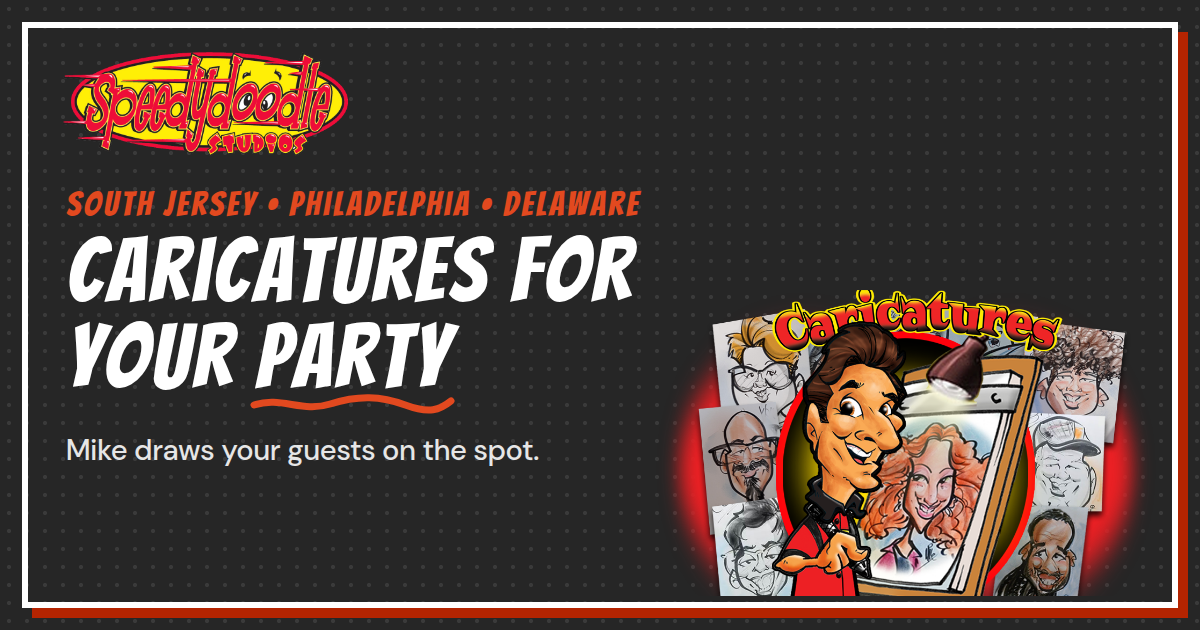
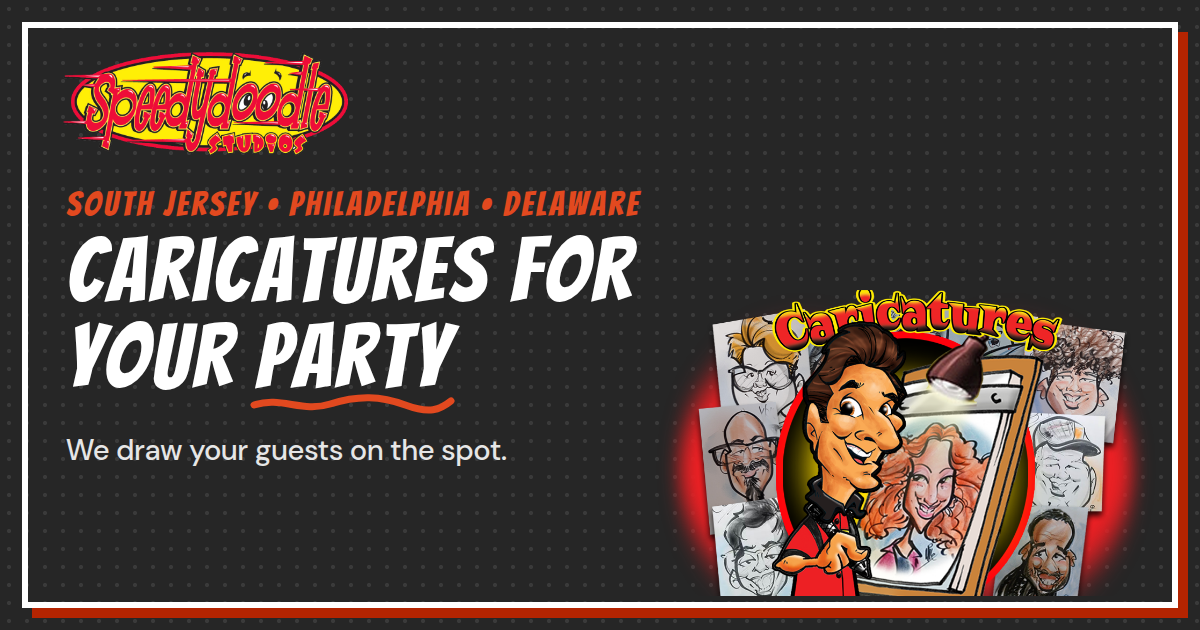
Speak as the studio: "we" in most places, "Mike" where the person matters
The first wording said "Mike" in almost each sentence, and it read as
a repeat. The site now speaks as a host who shows a visitor what the
studio offers: "Here at Speedydoodle Studios, we ...". "Mike" stays
where the person matters: who comes to an event, and who reads a
request.

The three share cards have the new words. The spec records the change.

Changed region(s): [[0.0308, 0.6937, 0.4625, 0.754]]

diff --git a/src/routes/home.tsx b/src/routes/home.tsx
@@ -16,7 +16,7 @@ import type { Route } from "./+types/home";
 
 const TITLE = "Speedydoodle Studios | Party caricatures by Mike Arnold";
 const DESCRIPTION =
-  "Mike draws fast, fun caricatures at weddings, birthdays, and company parties across South Jersey, Philadelphia, and Delaware. Get a quote in two minutes.";
+  "Here at Speedydoodle Studios, we draw fast, fun caricatures at weddings, birthdays, and company parties across South Jersey, Philadelphia, and Delaware. Get a quote in two minutes.";
 
 // What a search engine reads to know that this is a local business.
 const BUSINESS = {
@@ -47,7 +47,7 @@ export function meta() {
       description: DESCRIPTION,
       path: "/",
       image: "/share/home.jpg",
-      imageAlt: "A caricature of Mike Arnold at an easel, with the words: Caricatures for your party.",
+      imageAlt: "A caricature of Mike Arnold at an easel, with the words: Caricatures for your party. We draw your guests on the spot.",
     }),
     { "script:ld+json": BUSINESS },
   ];
@@ -65,7 +65,7 @@ const WORK: { type: QuoteType; gallery: string; title: string; line: string; pri
     type: "live",
     gallery: "/gallery/party",
     title: "Live events",
-    line: "Mike shows up and draws your guests on the spot. About 12 faces an hour.",
+    line: "Mike comes to your event and draws your guests on the spot, about 12 faces an hour.",
     price: (
       <>
         <Price>${PRICES.liveHourlyRate}</Price> an hour, plus travel
@@ -81,7 +81,7 @@ const WORK: { type: QuoteType; gallery: string; title: string; line: string; pri
     type: "custom",
     gallery: "/gallery/custom",
     title: "Custom caricatures",
-    line: "Send a few photos, and Mike turns them into a one-of-a-kind gift.",
+    line: "Send us a few photos, and we'll turn them into a one-of-a-kind gift.",
     price: (
       <>
         From <Price>${PRICES.customBase + PRICES.customPeople[1]}</Price>
@@ -98,7 +98,7 @@ const WORK: { type: QuoteType; gallery: string; title: string; line: string; pri
     type: "lni",
     gallery: "/gallery/logos",
     title: "Logos and illustrations",
-    line: "Got a brand, a book, or a product? Mike draws those too.",
+    line: "Got a brand, a book, or a product? We draw for those too.",
     price: (
       <>
         Logos <Price>${PRICES.logoHourlyRate}</Price> an hour · Illustrations <Price>${PRICES.illustration}</Price>
@@ -136,14 +136,14 @@ export default function Home({ loaderData }: Route.ComponentProps) {
               <Title as="span" big text="Speedydoodle Studios" underline="Studios" className="block" style={delay(1)} />
             </h1>
             <p className="mt-[18px] max-w-[44ch] text-[clamp(16px,1.6vw,19px)] text-[#dcdcdc]" data-m style={delay(3)}>
-              Mike draws fast, fun caricatures at weddings, birthdays, and company parties.
+              Here at Speedydoodle Studios, we turn weddings, birthdays, and company parties into something your guests take home.
             </p>
             <div className="mt-7 flex flex-wrap gap-4">
               <ComicButton to={quotePath()} reveal style={delay(4)}>
                 Get a quote
               </ComicButton>
               <ComicButton to="/gallery" ghost reveal style={delay(5)}>
-                See Mike's work
+                See our work
               </ComicButton>
             </div>
           </div>
@@ -162,14 +162,14 @@ export default function Home({ loaderData }: Route.ComponentProps) {
         </div>
       </Reveal>
 
-      {/* 2. What Mike does. */}
+      {/* 2. What we offer. */}
       <Reveal dots className="bg-card px-page py-[clamp(48px,8vw,96px)]">
         <div className="mx-auto max-w-content">
           <div className="text-center">
             <p className="kicker" data-m>
-              Three ways to book Mike
+              Take a look around
             </p>
-            <Title text="What Mike does" underline="does" />
+            <Title text="What we offer" underline="offer" />
           </div>
           <div className="mt-[52px] grid gap-14 md:grid-cols-3 md:gap-10">
             {WORK.map((work) => (
@@ -188,7 +188,7 @@ export default function Home({ loaderData }: Route.ComponentProps) {
                   <ComicButton to={quotePath(work.type)} size="small" reveal>
                     Get a quote
                   </ComicButton>
-                  <ComicButton to={work.gallery} size="small" ghost reveal aria-label={`See Mike's work: ${work.title}`}>
+                  <ComicButton to={work.gallery} size="small" ghost reveal aria-label={`See our work: ${work.title}`}>
                     See the work
                   </ComicButton>
                 </div>
@@ -203,9 +203,9 @@ export default function Home({ loaderData }: Route.ComponentProps) {
         <div className="mx-auto max-w-content">
           <div className="text-center">
             <p className="kicker" data-m>
-              Every one drawn by hand
+              Every piece drawn by hand
             </p>
-            <Title text="Mike's work" underline="work" />
+            <Title text="Our work" underline="work" />
           </div>
           <div className="mt-[52px] grid grid-cols-2 gap-[26px] md:grid-cols-4 md:gap-[34px]">
             {loaderData.picks.map((picture, index) => (
@@ -263,7 +263,7 @@ export default function Home({ loaderData }: Route.ComponentProps) {
       <Reveal dots className="px-page py-[clamp(48px,8vw,96px)] text-center">
         <Title text="Let's draw your party" underline="party" />
         <p className="mx-auto mt-[18px] max-w-[44ch] text-[clamp(16px,1.6vw,19px)] text-[#dcdcdc]" data-m>
-          Tell Mike the date and the place. You'll hear back within 24 hours.
+          Tell us the date and the place, and we'll get back to you within 24 hours.
         </p>
         <div className="mt-7 flex justify-center">
           <ComicButton to={quotePath()} reveal>

diff --git a/src/routes/gallery.tsx b/src/routes/gallery.tsx
@@ -11,25 +11,25 @@ import { pageMeta } from "@/lib/site";
 import "@/styles/gallery.css";
 import type { Route } from "./+types/gallery";
 
-const SHARE = { image: "/share/gallery.jpg", imageAlt: "Three of Mike's drawings, with the words: See Mike's work." };
+const SHARE = { image: "/share/gallery.jpg", imageAlt: "Three of our drawings, with the words: See our work." };
 
 // The title and the description of each choice of the bar.
 const PAGES: Record<CategoryKey, { label: string; description: string }> = {
   party: {
     label: "Party caricatures",
-    description: "Caricatures Mike drew on the spot at weddings, birthdays, and company parties across South Jersey, Philadelphia, and Delaware.",
+    description: "Caricatures we drew on the spot at weddings, birthdays, and company parties across South Jersey, Philadelphia, and Delaware.",
   },
   custom: {
     label: "Custom caricatures",
-    description: "Custom caricatures Mike drew from photos. One-of-a-kind gifts, every one drawn by hand.",
+    description: "Custom caricatures we drew from photos. One-of-a-kind gifts, each one drawn by hand.",
   },
   illustrations: {
     label: "Illustrations",
-    description: "Illustrations Mike drew for books, brands, and products. Every one drawn by hand.",
+    description: "Illustrations we drew for books, brands, and products, each one drawn by hand.",
   },
   logos: {
     label: "Logos",
-    description: "Cartoon logos Mike drew for businesses and brands. Every one drawn by hand.",
+    description: "Cartoon logos we drew for businesses and brands, each one drawn by hand.",
   },
 };
 
@@ -54,14 +54,14 @@ export function meta({ params, loaderData }: Route.MetaArgs) {
   }
   if (category) {
     return pageMeta({
-      title: `${PAGES[category].label} | Mike's work | Speedydoodle Studios`,
+      title: `${PAGES[category].label} | Our work | Speedydoodle Studios`,
       description: PAGES[category].description,
       path: listPath(category),
       ...SHARE,
     });
   }
   return pageMeta({
-    title: "Mike's work | Speedydoodle Studios",
+    title: "Our work | Speedydoodle Studios",
     description: "Party caricatures, custom gifts, logos, and illustrations. Every one drawn by hand.",
     path: "/gallery",
     ...SHARE,
@@ -193,7 +193,7 @@ export default function GalleryPage({ loaderData, params }: Route.ComponentProps
       <main className="dots">
         <Reveal mode="load" className="px-4 pb-2 pt-[clamp(36px,6vw,72px)] text-center">
           <p className="kicker" data-m style={delay(0)}>
-            All drawn by Mike
+            Every piece drawn by hand
           </p>
           <Title as="h1" big text="The Gallery" style={delay(1)} />
         </Reveal>
@@ -210,7 +210,7 @@ export default function GalleryPage({ loaderData, params }: Route.ComponentProps
           <Wall key={listKey} listKey={listKey} pictures={pictures} onOpen={(panel) => (opener.current = panel)} />
         ) : (
           <p className="gallery-loading comic" role="status">
-            {failed ? "The pictures did not load. Check the connection and reload." : "Mike is sharpening the pencils…"}
+            {failed ? "The pictures did not load. Check the connection and reload." : "We're sharpening the pencils…"}
           </p>
         )}
       </main>

diff --git a/docs/design-studies/share-card.html b/docs/design-studies/share-card.html
@@ -32,12 +32,12 @@
 <img class="logo" src="img/logo.png" alt="">
 
 <div data-card="home">
-  <div class="copy"><div class="kicker">South Jersey • Philadelphia • Delaware</div><h1>Caricatures for your <span class="u">party<svg viewBox="0 0 200 22" preserveAspectRatio="none"><path d="M3 12 C 30 3, 50 20, 78 11 S 128 3, 152 12 S 186 17, 197 8"/></svg></span></h1><p class="line">Mike draws your guests on the spot.</p></div>
+  <div class="copy"><div class="kicker">South Jersey • Philadelphia • Delaware</div><h1>Caricatures for your <span class="u">party<svg viewBox="0 0 200 22" preserveAspectRatio="none"><path d="M3 12 C 30 3, 50 20, 78 11 S 128 3, 152 12 S 186 17, 197 8"/></svg></span></h1><p class="line">We draw your guests on the spot.</p></div>
   <img class="art" src="img/splash.png" alt="">
 </div>
 
 <div data-card="gallery">
-  <div class="copy"><div class="kicker">132 drawings and counting</div><h1>See Mike's <span class="u">work<svg viewBox="0 0 200 22" preserveAspectRatio="none"><path d="M3 12 C 30 3, 50 20, 78 11 S 128 3, 152 12 S 186 17, 197 8"/></svg></span></h1><p class="line">Party caricatures, gifts, logos, and illustrations.</p></div>
+  <div class="copy"><div class="kicker">132 drawings and counting</div><h1>See our <span class="u">work<svg viewBox="0 0 200 22" preserveAspectRatio="none"><path d="M3 12 C 30 3, 50 20, 78 11 S 128 3, 152 12 S 186 17, 197 8"/></svg></span></h1><p class="line">Party caricatures, gifts, logos, and illustrations.</p></div>
   <div class="panels">
     <i style="left:0;top:30px;rotate:-5deg;background-image:url('https://ik.imagekit.io/4hll6ncue/party_caricatures/05-Party_Caricatures.jpg?tr=w-520')"></i>
     <i style="left:190px;top:0;rotate:4deg;background-image:url('https://ik.imagekit.io/4hll6ncue/custom_caricatures/SD-Joe-GIFT-Caricature.jpg?tr=w-520')"></i>
@@ -46,7 +46,7 @@
 </div>
 
 <div data-card="services">
-  <div class="copy"><div class="kicker">Takes two minutes</div><h1>Book Mike for your <span class="u">event<svg viewBox="0 0 200 22" preserveAspectRatio="none"><path d="M3 12 C 30 3, 50 20, 78 11 S 128 3, 152 12 S 186 17, 197 8"/></svg></span></h1><p class="line">Live caricatures from $150 an hour. You pay nothing to ask.</p></div>
+  <div class="copy"><div class="kicker">Takes two minutes</div><h1>Book us for your <span class="u">event<svg viewBox="0 0 200 22" preserveAspectRatio="none"><path d="M3 12 C 30 3, 50 20, 78 11 S 128 3, 152 12 S 186 17, 197 8"/></svg></span></h1><p class="line">Live caricatures from $150 an hour. You pay nothing to ask.</p></div>
   <img class="art" src="img/splash.png" alt="" style="width:400px;right:90px;bottom:auto;top:60px">
   <div class="burst"><svg viewBox="0 0 330 150" preserveAspectRatio="none"><polygon id="shade" fill="#000" transform="translate(8 8)"/><polygon id="shape" fill="#b42401" stroke="#fff" stroke-width="6" stroke-linejoin="round"/></svg><span>Get a quote</span></div>
 </div>

diff --git a/src/components/quote/AnswerStep.tsx b/src/components/quote/AnswerStep.tsx
@@ -40,7 +40,7 @@ const SELECTIONS = [
   { value: "illustration" as const, label: "An illustration", cost: `$${PRICES.illustration}` },
 ];
 
-const DRAWING_HELP = "Who's in it, and what are they up to? You can email Mike the photos later.";
+const DRAWING_HELP = "Who's in it, and what are they up to? You can email us the photos later.";
 const NEED_HELP = "What's it for, and what should it show?";
 
 // Step 2: the questions about the visitor, then the questions of the chosen kind of work.
@@ -83,8 +83,8 @@ export function AnswerStep({ type, answers, problems, place, today, set, onTypeL
         {line("firstName", "First name", { maxLength: 60, autoComplete: "given-name" })}
         {line("lastName", "Last name", { maxLength: 60, autoComplete: "family-name" })}
       </div>
-      {line("email", "Email address", { help: "Mike sends your quote here.", maxLength: 254, type: "email", autoComplete: "email", inputMode: "email" })}
-      {line("phone", "Phone number (optional)", { help: "Mike only calls if a detail of your event is unclear.", maxLength: 25, type: "tel", autoComplete: "tel" })}
+      {line("email", "Email address", { help: "We'll send your quote here.", maxLength: 254, type: "email", autoComplete: "email", inputMode: "email" })}
+      {line("phone", "Phone number (optional)", { help: "We only call if a detail of your event is unclear.", maxLength: 25, type: "tel", autoComplete: "tel" })}
 
       {type === "live" ? (
         <>

diff --git a/src/components/quote/QuoteForm.tsx b/src/components/quote/QuoteForm.tsx
@@ -29,8 +29,8 @@ import { NO_PLACE, type Place } from "./LocationField";
 type Step = 1 | 2 | 3 | 4;
 
 const HEAD: Record<Step, { where: string; title: string; sub: string }> = {
-  1: { where: "Step 1 of 3", title: "What can Mike draw for you?", sub: "Pick one. You can always go back." },
-  2: { where: "Step 2 of 3", title: "Tell Mike about it", sub: "Mike needs each of these to give you a price." },
+  1: { where: "Step 1 of 3", title: "What can we draw for you?", sub: "Pick one. You can always go back." },
+  2: { where: "Step 2 of 3", title: "Tell us about it", sub: "We need each of these to give you a price." },
   3: { where: "Step 3 of 3", title: "Look it over, then send it", sub: "Want to change something? Press Back." },
   4: { where: "Done", title: "Thank you!", sub: "" },
 };
@@ -278,7 +278,7 @@ export function QuoteForm() {
               <div className="ink-box bubble quote-thanks">
                 <InkParts radius={22} />
                 <p className="ink-in px-6 py-5">
-                  <b>Got it!</b> Your request is on its way to Mike. Look for an email from Speedydoodle in a few minutes, and a reply from Mike within 24 hours.
+                  <b>Got it!</b> Your request is on its way to Mike. Look for an email from us in a few minutes, and a reply within 24 hours.
                 </p>
               </div>
               <div className="quote-actions mt-11">

diff --git a/src/lib/quote.test.ts b/src/lib/quote.test.ts
@@ -302,13 +302,13 @@ describe("the estimate on the bar", () => {
     expect(estimateFor("live", { ...live, endTime: "" }, null)).toStrictEqual({ text: "—", note: "Pick the two times to see it." });
   });
   it("of a live event says that travel comes later while the distance is unknown: 3 hours at 150", () => {
-    expect(estimateFor("live", live, null)).toStrictEqual({ text: "$450.00", note: "3 hours. Travel is added once Mike has the address." });
+    expect(estimateFor("live", live, null)).toStrictEqual({ text: "$450.00", note: "3 hours. Travel is added once we have the address." });
   });
   it("of a live event includes travel when the distance is known: 450 plus 40 miles / 27 * 3.7", () => {
     expect(estimateFor("live", live, 20)).toStrictEqual({ text: "$455.48", note: "3 hours. Includes travel." });
   });
   it("of a live event of one hour says 1 hour", () => {
-    expect(estimateFor("live", { ...live, endTime: "19:00" }, null).note).toBe("1 hour. Travel is added once Mike has the address.");
+    expect(estimateFor("live", { ...live, endTime: "19:00" }, null).note).toBe("1 hour. Travel is added once we have the address.");
   });
   it("of a custom caricature is 375 for 2 people, a simple background, and words", () => {
     expect(estimateFor("custom", custom, null)).toStrictEqual({ text: "$375.00", note: "" });

diff --git a/src/lib/quote.ts b/src/lib/quote.ts
@@ -81,7 +81,7 @@ const MISSING: Partial<Record<FieldKey, string>> = {
   firstName: "Type your first name.",
   lastName: "Type your last name.",
   email: "Type an email address, for example name@example.com.",
-  event: "Tell Mike what the event is.",
+  event: "Tell us what the event is.",
   headcount: "Type a number of guests, for example 80.",
   location: "Type the address of the event.",
   date: "Choose the day of the event.",
@@ -270,7 +270,7 @@ export function estimateFor(type: QuoteType, answers: QuoteAnswers, oneWayMiles:
     const { startTime, endTime } = answers;
     if (!startTime || !endTime) return { text: "—", note: "Pick the two times to see it." };
     const hours = eventHours(startTime, endTime);
-    const travel = oneWayMiles === null ? "Travel is added once Mike has the address." : "Includes travel.";
+    const travel = oneWayMiles === null ? "Travel is added once we have the address." : "Includes travel.";
     return {
       text: formatMoney(estimateLive({ startTime, endTime, oneWayMiles })),
       note: `${hours} ${hours === 1 ? "hour" : "hours"}. ${travel}`,

diff --git a/src/lib/gallery.ts b/src/lib/gallery.ts
@@ -17,10 +17,10 @@ export interface Category {
 }
 
 export const CATEGORIES: Category[] = [
-  { key: "party", label: "Party", noun: "Party caricature", quoteType: "live", burstLine: "Want Mike at your event?" },
+  { key: "party", label: "Party", noun: "Party caricature", quoteType: "live", burstLine: "Want this at your event?" },
   { key: "custom", label: "Custom", noun: "Custom caricature", quoteType: "custom", burstLine: "Want one of your own?" },
-  { key: "illustrations", label: "Illustrations", noun: "Illustration", quoteType: "lni", burstLine: "Need art like this? Ask Mike." },
-  { key: "logos", label: "Logos", noun: "Logo", quoteType: "lni", burstLine: "Need a logo? Ask Mike." },
+  { key: "illustrations", label: "Illustrations", noun: "Illustration", quoteType: "lni", burstLine: "Need art like this?" },
+  { key: "logos", label: "Logos", noun: "Logo", quoteType: "lni", burstLine: "Need a logo like this?" },
 ];
 
 export const isCategoryKey = (value: string | undefined): value is CategoryKey =>

diff --git a/src/routes/services.tsx b/src/routes/services.tsx
@@ -6,11 +6,11 @@ import type { Route } from "./+types/services";
 
 export const meta: Route.MetaFunction = () =>
   pageMeta({
-    title: "Book Mike for your event | Speedydoodle Studios",
-    description: `Live caricatures from $${PRICES.liveHourlyRate} an hour, custom caricatures from $${PRICES.customBase + PRICES.customPeople[1]}. Tell Mike the date and the place. You pay nothing to ask.`,
+    title: "Book a caricature artist | Speedydoodle Studios",
+    description: `Live caricatures from $${PRICES.liveHourlyRate} an hour, custom caricatures from $${PRICES.customBase + PRICES.customPeople[1]}. Tell us the date and the place. You pay nothing to ask.`,
     path: "/services",
     image: "/share/services.jpg",
-    imageAlt: "A caricature of Mike Arnold, with the words: Book Mike for your event.",
+    imageAlt: "A caricature of Mike Arnold, with the words: Book us for your event.",
   });
 
 export default function Services() {

diff --git a/src/components/quote/ChooseStep.tsx b/src/components/quote/ChooseStep.tsx
@@ -23,7 +23,7 @@ const CHOICES: Choice[] = [
   {
     type: "live",
     title: "Live caricatures",
-    line: "Mike comes to your party and draws your guests.",
+    line: "Mike comes to your event and draws your guests.",
     price: (
       <>
         <strong>{dollars(PRICES.liveHourlyRate)}</strong> an hour, plus travel
@@ -37,7 +37,7 @@ const CHOICES: Choice[] = [
   {
     type: "custom",
     title: "A custom caricature",
-    line: "Send photos, and Mike draws the gift.",
+    line: "Send us photos, and we'll draw the gift.",
     price: (
       <>
         From <strong>{dollars(PRICES.customBase + PRICES.customPeople[1])}</strong>

diff --git a/src/root.tsx b/src/root.tsx
@@ -61,7 +61,7 @@ export function ErrorBoundary({ error }: Route.ErrorBoundaryProps) {
   return (
     <main className="dots px-page py-24 text-center">
       <p className="kicker">{missing ? "Page not found" : "Something went wrong"}</p>
-      <h1 className="title mt-1">{missing ? "Mike didn't draw this page" : "This page hit a snag"}</h1>
+      <h1 className="title mt-1">{missing ? "We haven't drawn this page" : "This page hit a snag"}</h1>
       <p className="mx-auto mt-4 max-w-[44ch] text-[#dcdcdc]">
         {missing ? "The address may be old or mistyped." : "Try again in a moment."}
       </p>

diff --git a/src/components/quote/CheckStep.tsx b/src/components/quote/CheckStep.tsx
@@ -67,7 +67,7 @@ export function CheckStep({ type, answers, problems, estimate, sending, sendProb
           <dd>{estimate}</dd>
         </div>
       </dl>
-      <Field name="notes" label="Anything else Mike should know?" help={NOTES_HELP} problem={problems.notes}>
+      <Field name="notes" label="Anything else we should know?" help={NOTES_HELP} problem={problems.notes}>
         <Textarea maxLength={2000} {...controlProps("notes", NOTES_HELP, problems.notes)} value={answers.notes} onChange={(event) => onNotes(event.target.value)} />
       </Field>
       <p className="quote-promise">
